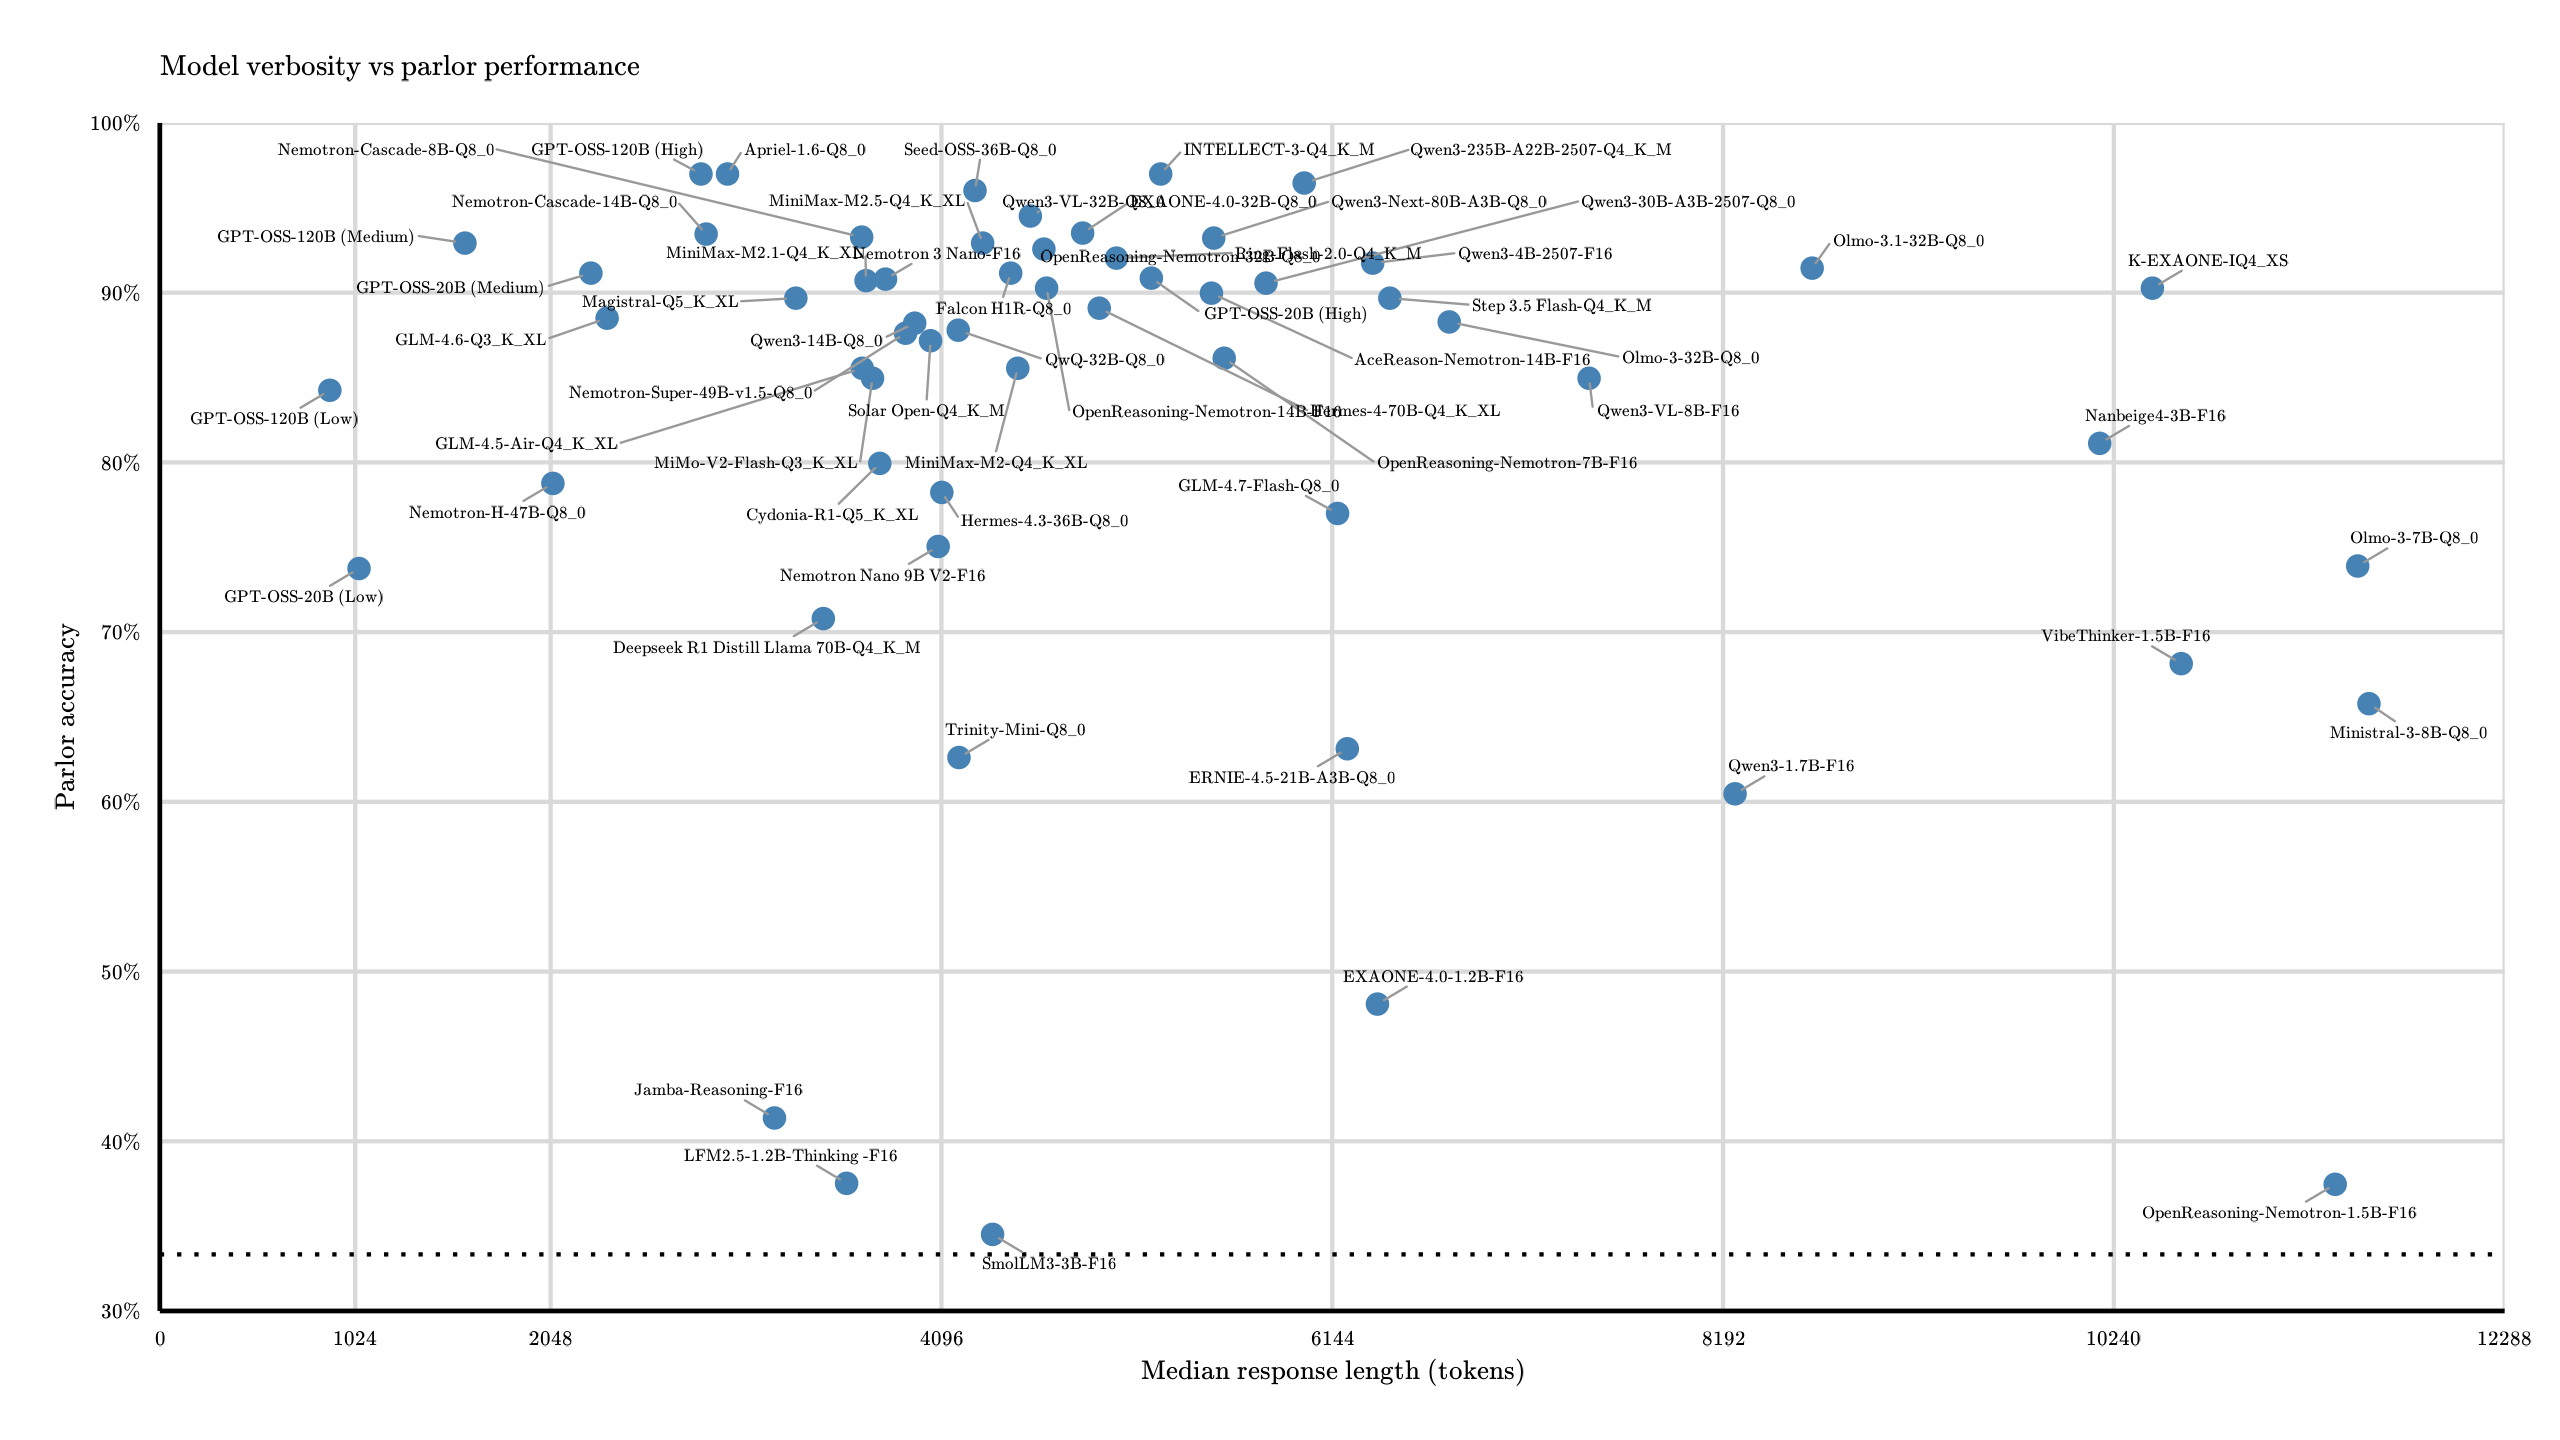
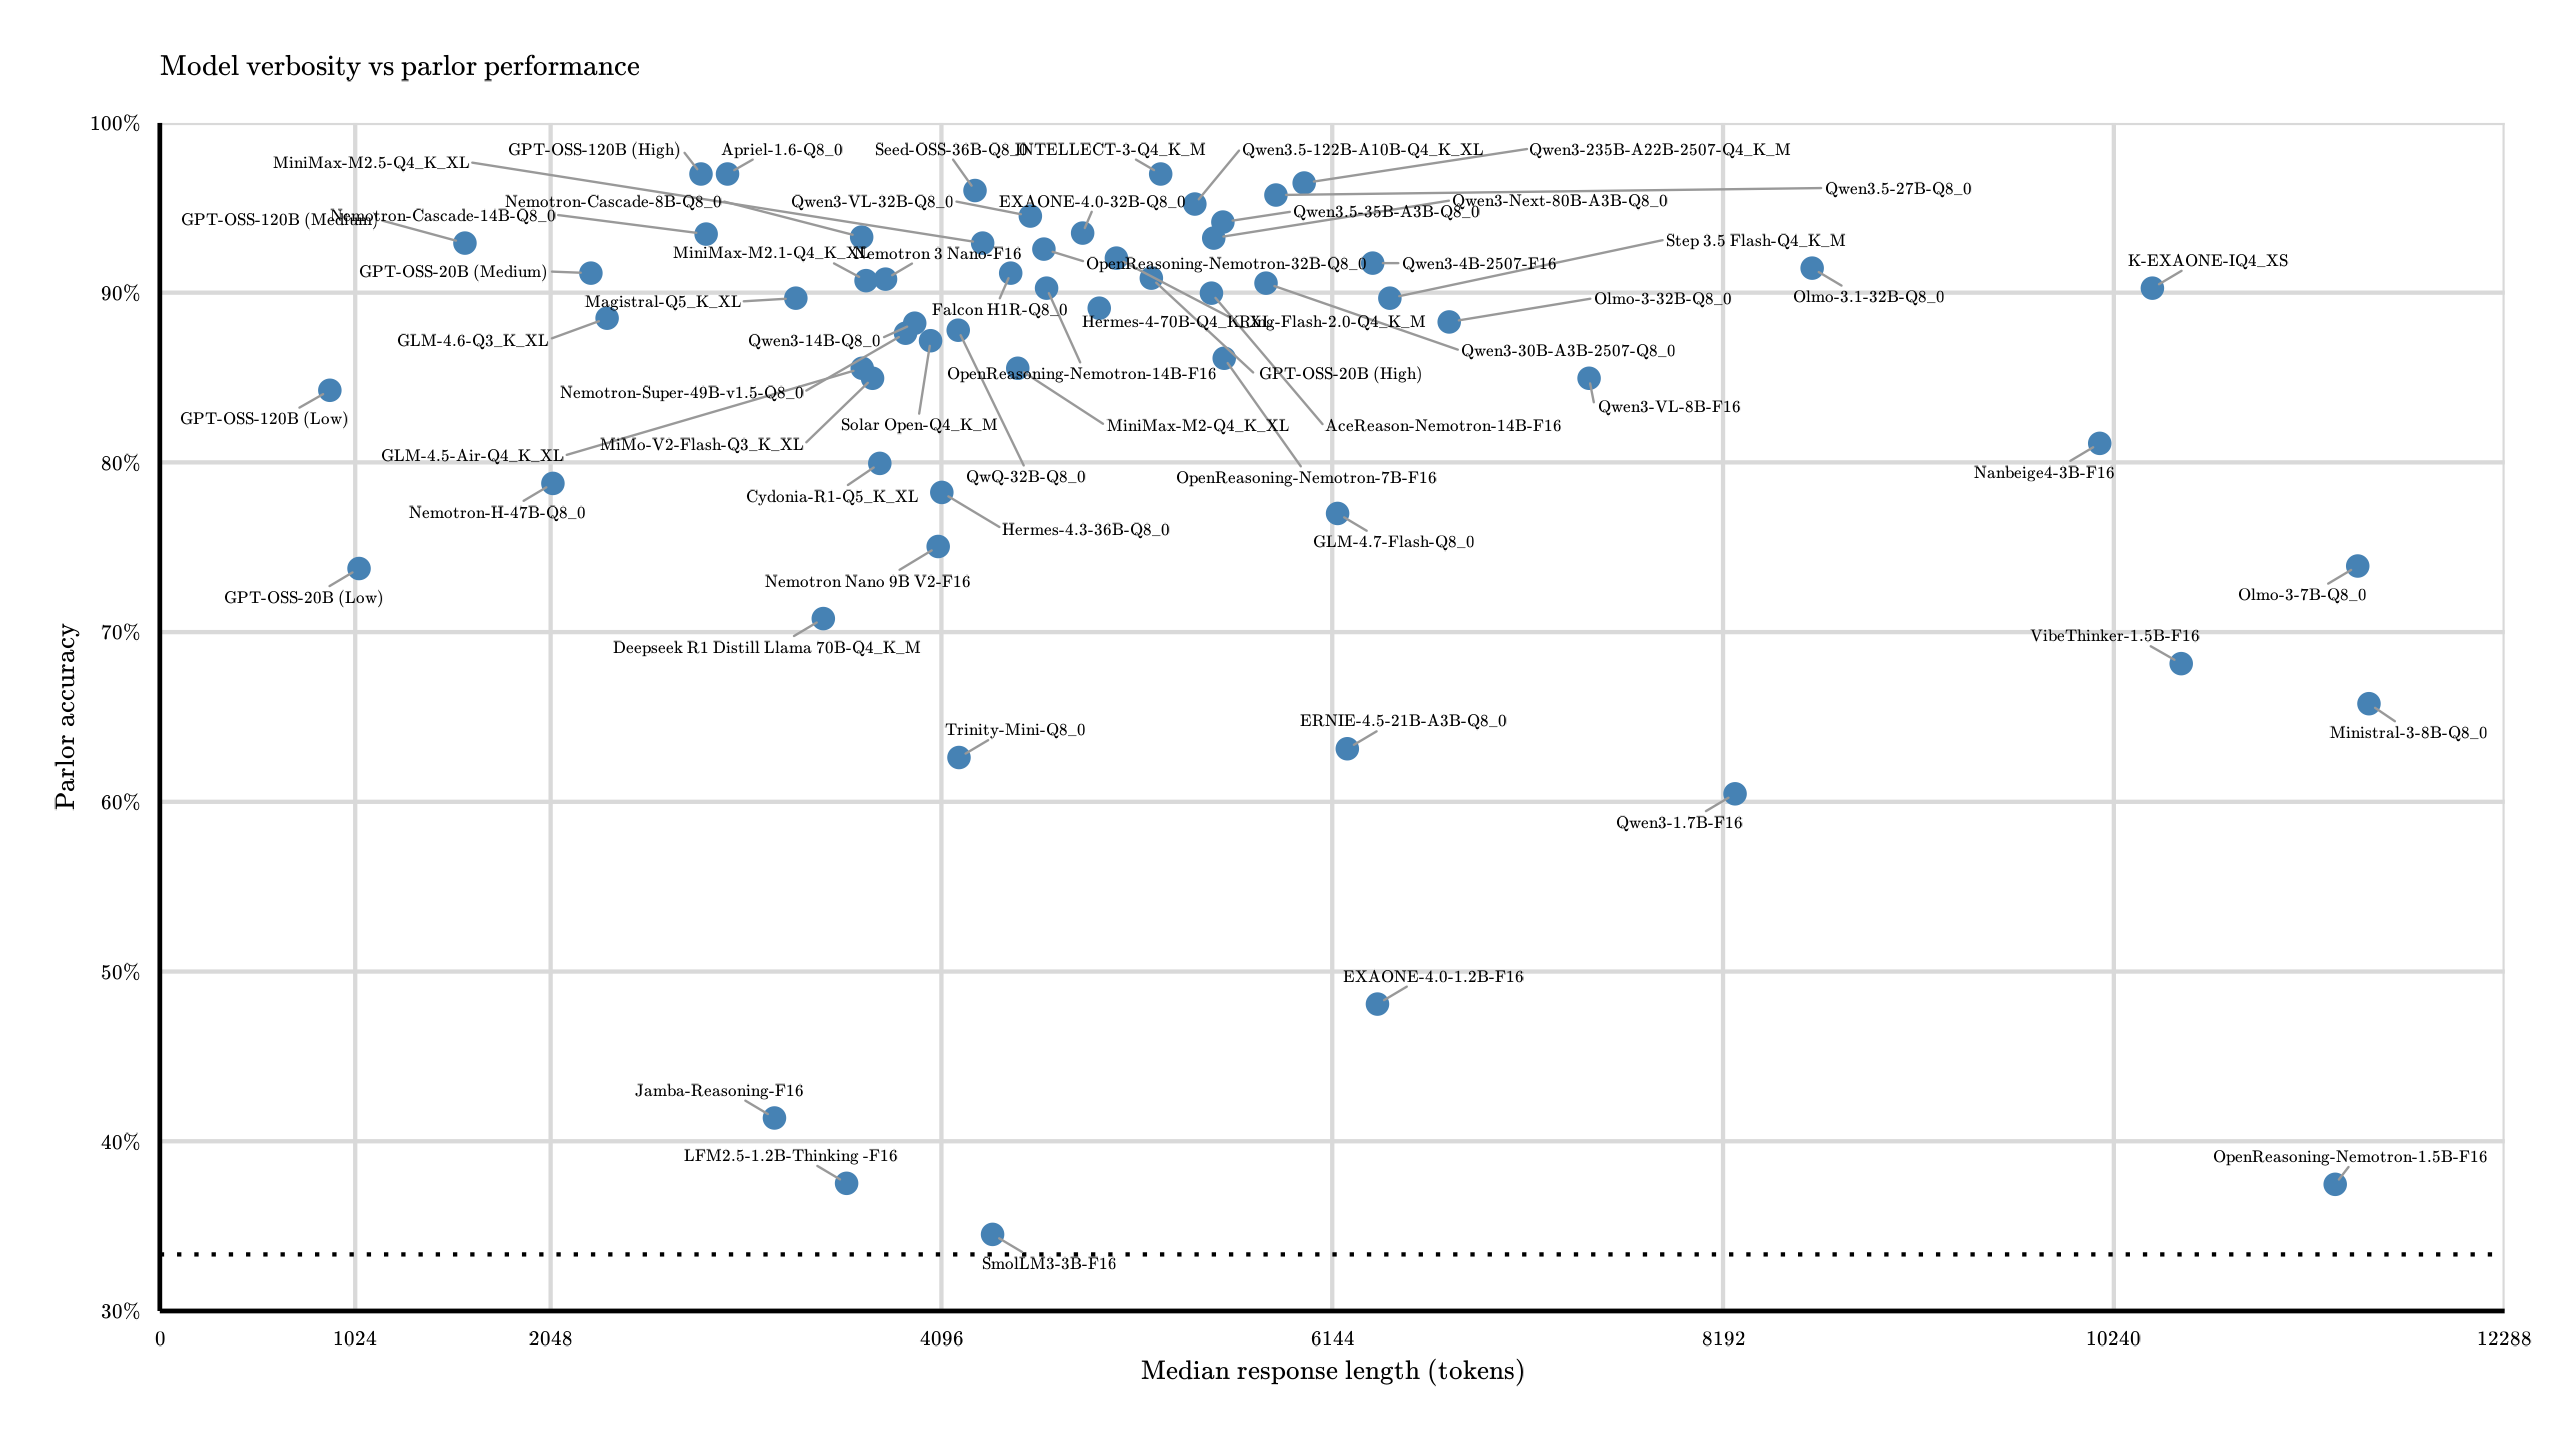
Parlor: Qwen3.5 x3

diff --git a/pages/parlor-reasoning.html b/pages/parlor-reasoning.html
@@ -44,7 +44,7 @@
         <div class="article-container">
             <header class="article-header">
                 <h1>Reasoning LLMs vs the Parlor Puzzle</h1>
-                <div class="meta">By BigStupidJellyfish | 2025-November-02 | Updated 2026-February-17</div>
+                <div class="meta">By BigStupidJellyfish | 2025-November-02 | Updated 2026-February-26</div>
             </header>
 <div class="article-content">
 
@@ -485,12 +485,12 @@
       <td>6922/5997 tokens</td>
     </tr>
 	<tr>
-      <td><a href="https://huggingface.co/Qwen/Qwen3-Next-80B-A3B-Thinking">Qwen3-Next-80B-A3B</a></td>
-	  <td>80B</td>
-	  <td>Q8_0</td>
-      <td>113*3</td>
-	  <td>93.2%</td> <!-- 316/339 -->
-      <td>6781/5523 tokens</td>
+      <td><a href="https://huggingface.co/Qwen/Qwen3.5-122B-A10B">Qwen3.5-122B-A10B</a></td>
+	  <td>122B</td>
+	  <td>Q4_K_XL</td>
+      <td>113*5</td>
+	  <td>95.2%</td> <!-- 538/565 -->
+      <td>6084/5424 tokens</td>
     </tr>
 	<tr>
       <td><a href="https://huggingface.co/inclusionAI/Ring-flash-2.0">Ring-Flash-2.0</a></td>
@@ -927,7 +927,7 @@ Batch final 3: 43317
 	</tbody>
 </table>
 <p>
-	All configurations tested were relatively prone to get stuck in an infinite reasoning loop, causing many of their errors.
+	All configurations of the base (M2) model tested were relatively prone to get stuck in an infinite reasoning loop, causing many of their errors.
 </p>
 <p>
 	Unfortunately, even the full Q4 model was not very good at these puzzles.
@@ -1259,6 +1259,30 @@ The statement matching this statement is on a completely true box."
       <td>6781/5523 tokens</td>
     </tr>
 	<tr>
+      <td><a href="https://huggingface.co/Qwen/Qwen3.5-27B">Qwen3.5-27B</a></td>
+	  <td>27B</td>
+	  <td>Q8_0</td>
+      <td>113*5</td>
+	  <td>95.8%</td> <!-- 541/565 -->
+      <td>6470/5849 tokens</td>
+    </tr>
+	<tr>
+      <td><a href="https://huggingface.co/Qwen/Qwen3.5-35B-A3B">Qwen3.5-35B-A3B</a></td>
+	  <td>35B</td>
+	  <td>Q8_0</td>
+      <td>113*5</td>
+	  <td>94.2%</td> <!-- 532/565 -->
+      <td>6569/5571 tokens</td>
+    </tr>
+	<tr>
+      <td><a href="https://huggingface.co/Qwen/Qwen3.5-122B-A10B">Qwen3.5-122B-A10B</a></td>
+	  <td>122B</td>
+	  <td>Q4_K_XL</td>
+      <td>113*5</td>
+	  <td>95.2%</td> <!-- 538/565 -->
+      <td>6084/5424 tokens</td>
+    </tr>
+		<tr>
       <td><a href="https://huggingface.co/Qwen/QwQ-32B">QwQ-32B</a></td>
 	  <td>32B</td>
 	  <td>Q8_0</td>
